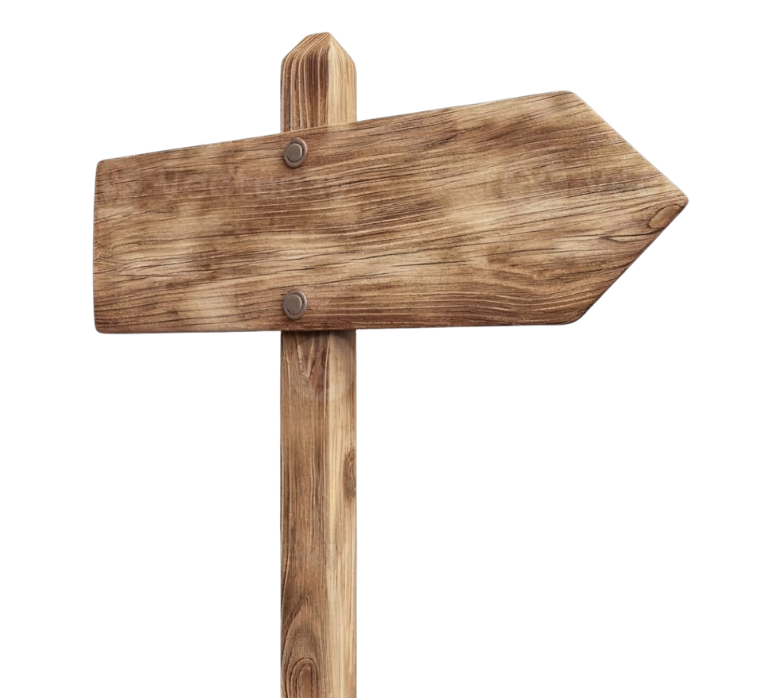
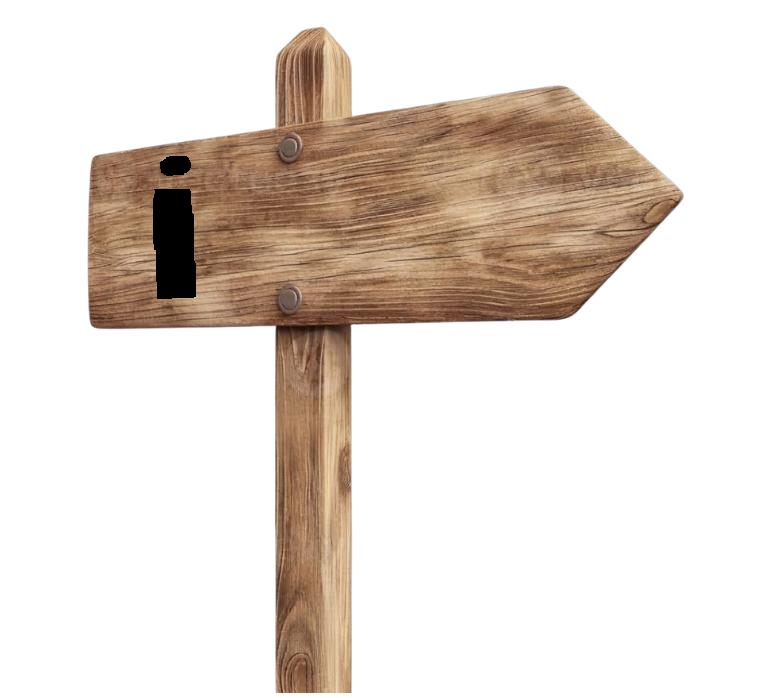
Placa

Changed region(s): [[0.0933, 0.0301, 0.9016, 1.0]]

diff --git a/frontend/css/index.css b/frontend/css/index.css
@@ -27,8 +27,8 @@ body{
 }
 
 .placa{
-    height: 40px;
+    height: 70px;
     position: relative;
-    top: 440px;
-    left: 330px;
+    top: 240px;
+    left: 150px;
 }

diff --git a/frontend/index.php b/frontend/index.php
@@ -7,7 +7,7 @@
     <title>Document</title>
     <link rel="stylesheet" href="css/index.css">
 </head>
-
+    
 <body>
     <main>
         <h1 class="title">Gripe Aviária</h1>
